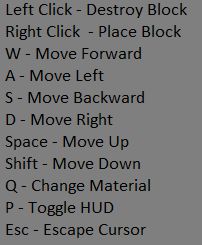
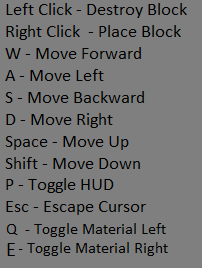
Update controls image

Changed region(s): [[0.0297, 0.0, 0.9208, 0.9714], [0.3861, 0.0286, 0.4158, 0.0571]]

diff --git a/src/js/HUD.js b/src/js/HUD.js
@@ -28,7 +28,7 @@ HUD = function(blockSelector, texture, saveCallback, world)
     controlsImage.sourceTop = 0;
     controlsImage.sourceLeft = 0;
     controlsImage.sourceWidth = 202;
-    controlsImage.sourceHeight = 245;
+    controlsImage.sourceHeight = 268;
     controlsImage.left = "-43.5%";
     controlsImage.top = "-35%";
     controlsImage.alpha = 0.8;
